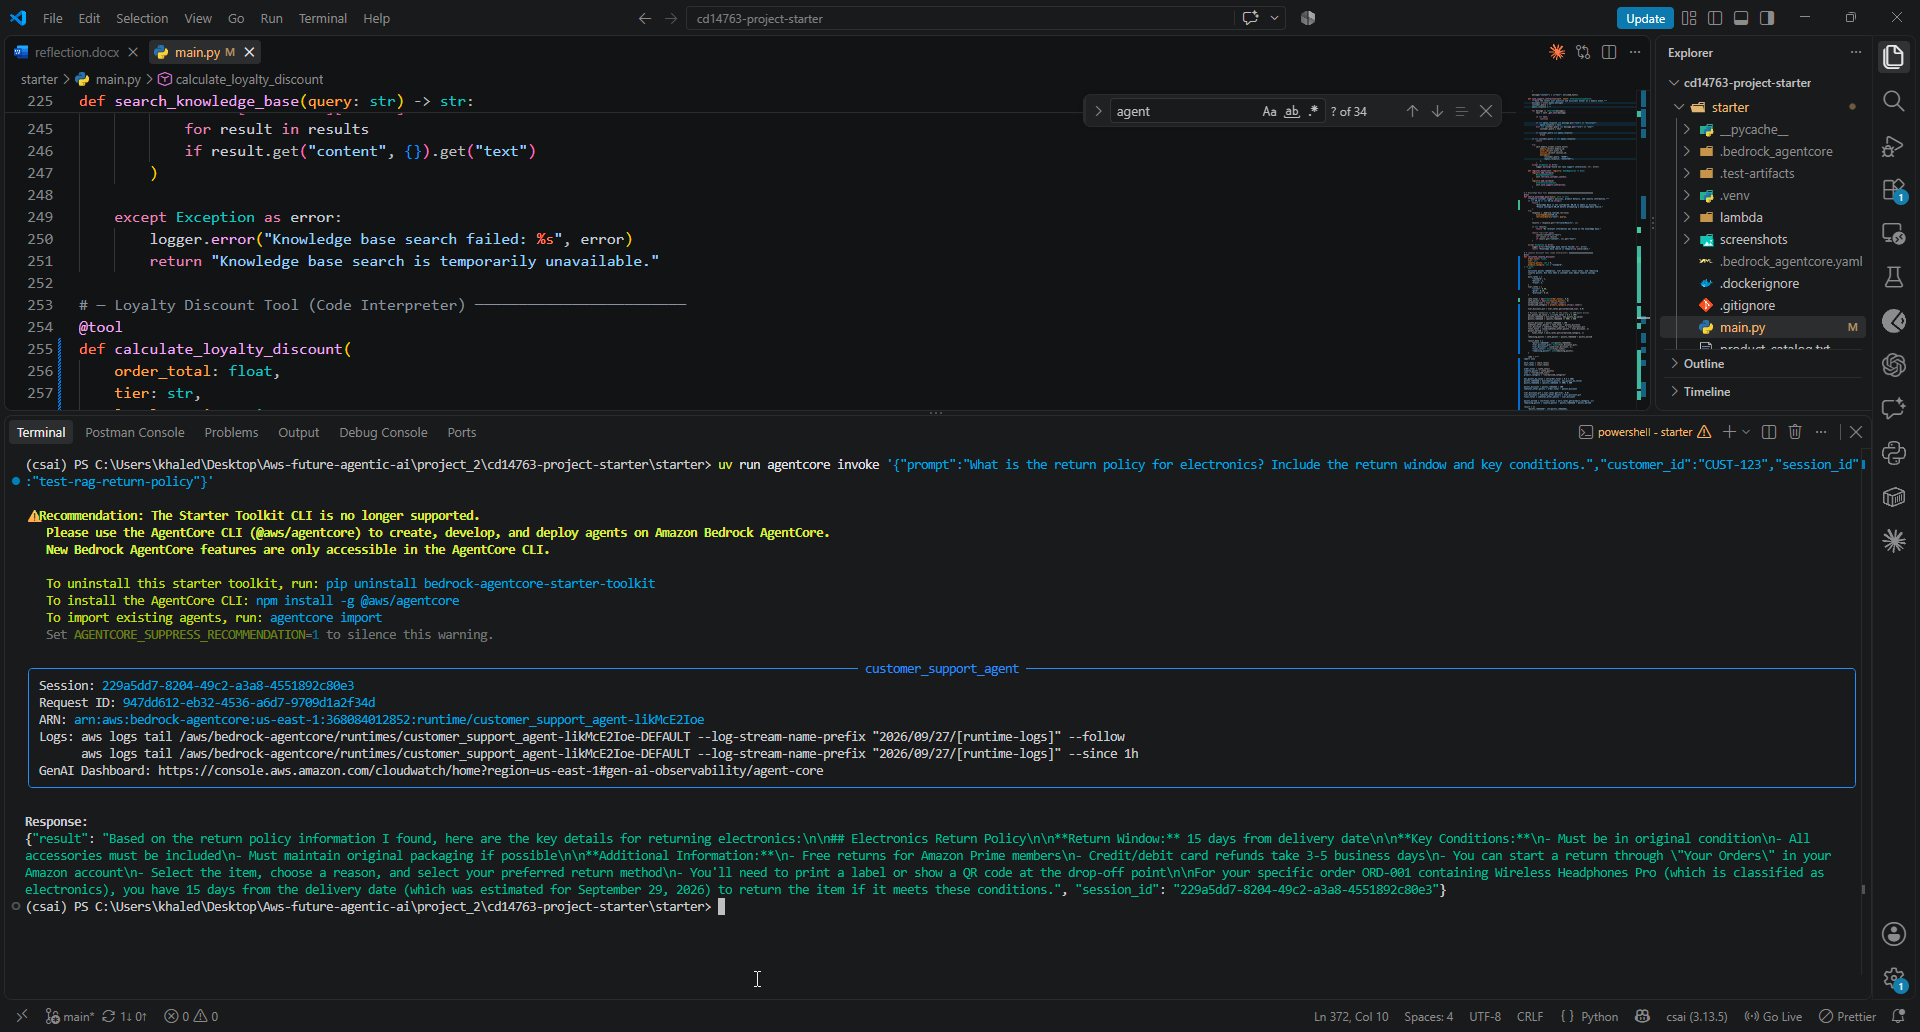
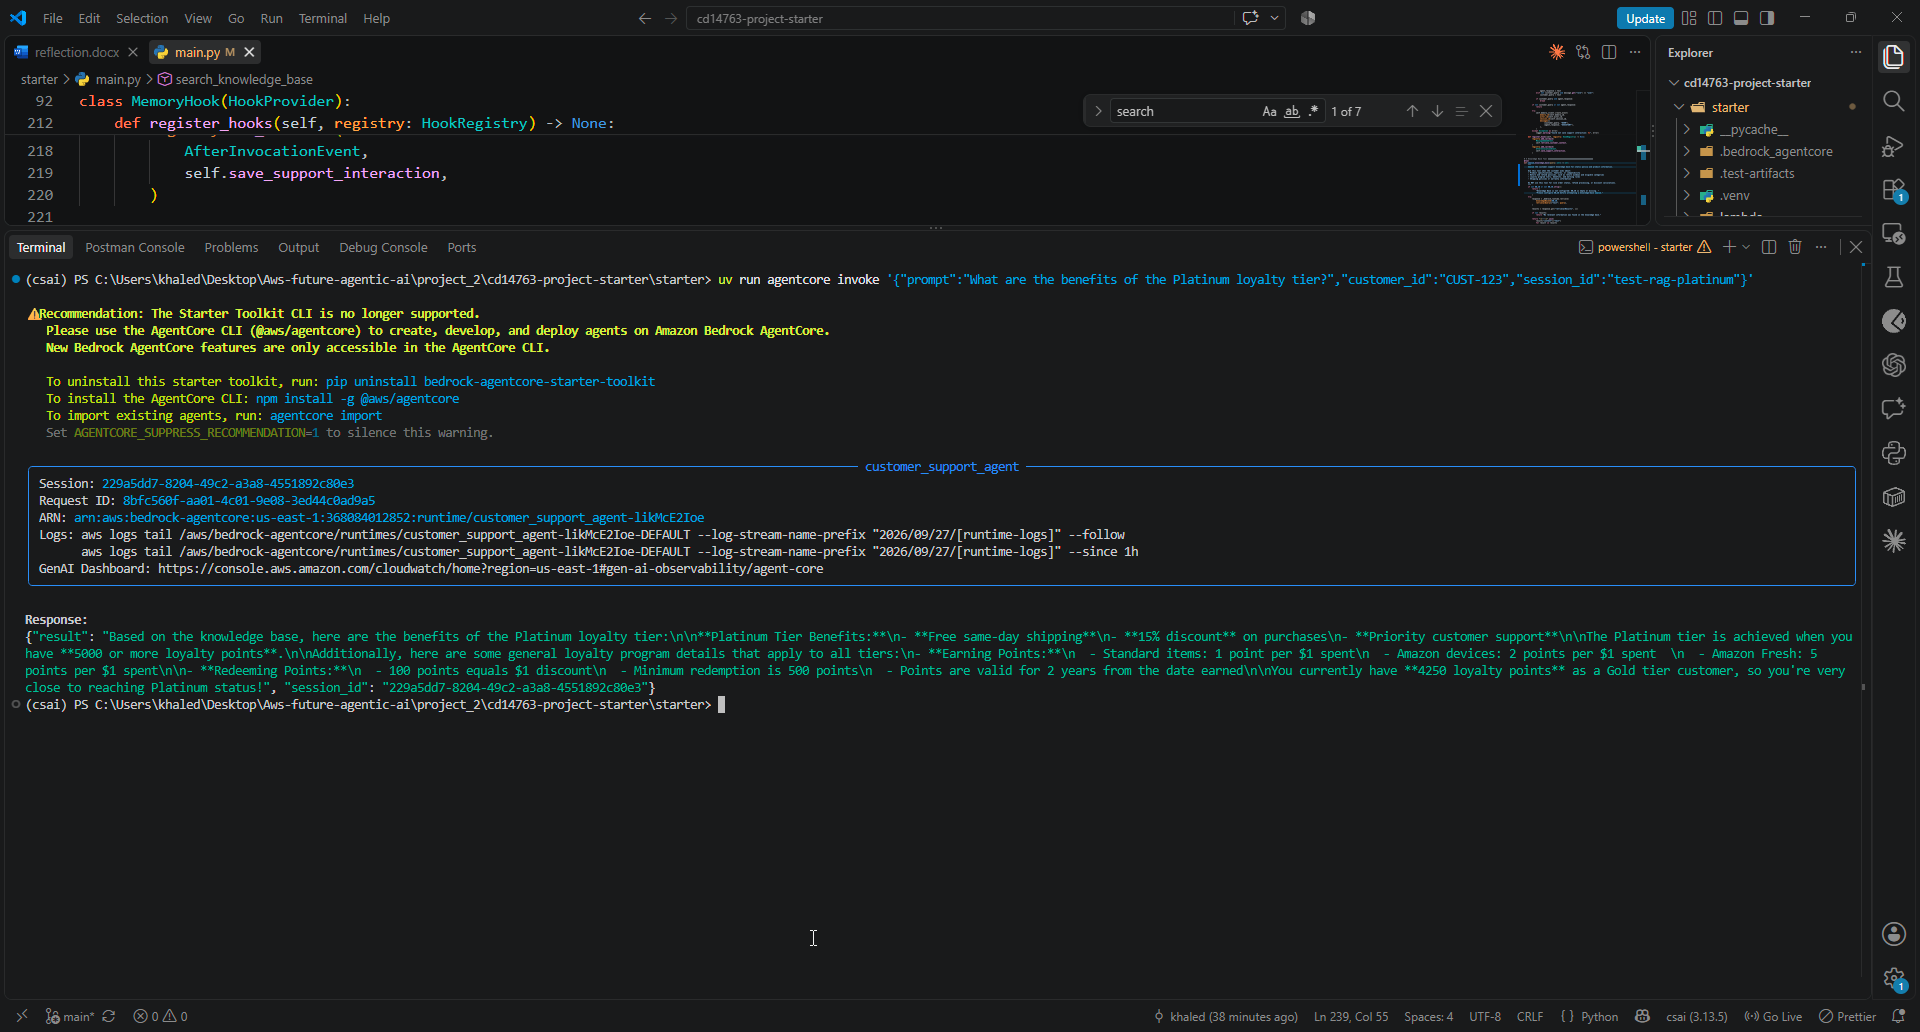
fix: clarify knowledge base tool selection

diff --git a/starter/main.py b/starter/main.py
@@ -223,7 +223,17 @@ class MemoryHook(HookProvider):
 # — Knowledge Base Tool ─────────────────────────────────────────────
 @tool
 def search_knowledge_base(query: str) -> str:
-    """Search customer support policies, product details, and loyalty information."""
+    """
+    Search the customer support knowledge base for static policy and product information.
+
+    Use this tool when the customer asks about:
+    - Product specifications, features, or compatibility
+    - Return and refund policies, such as return windows and eligible categories
+    - Loyalty program tiers, benefits, and earning rules
+    - Shipping policies or warranty information
+
+    Do NOT use this tool for live order status, refund processing, or discount calculations.
+    """
     if not KB_ID or not KB_ID.strip():
         return (
             "Knowledge Base is not configured: KB_ID is empty or missing. "
